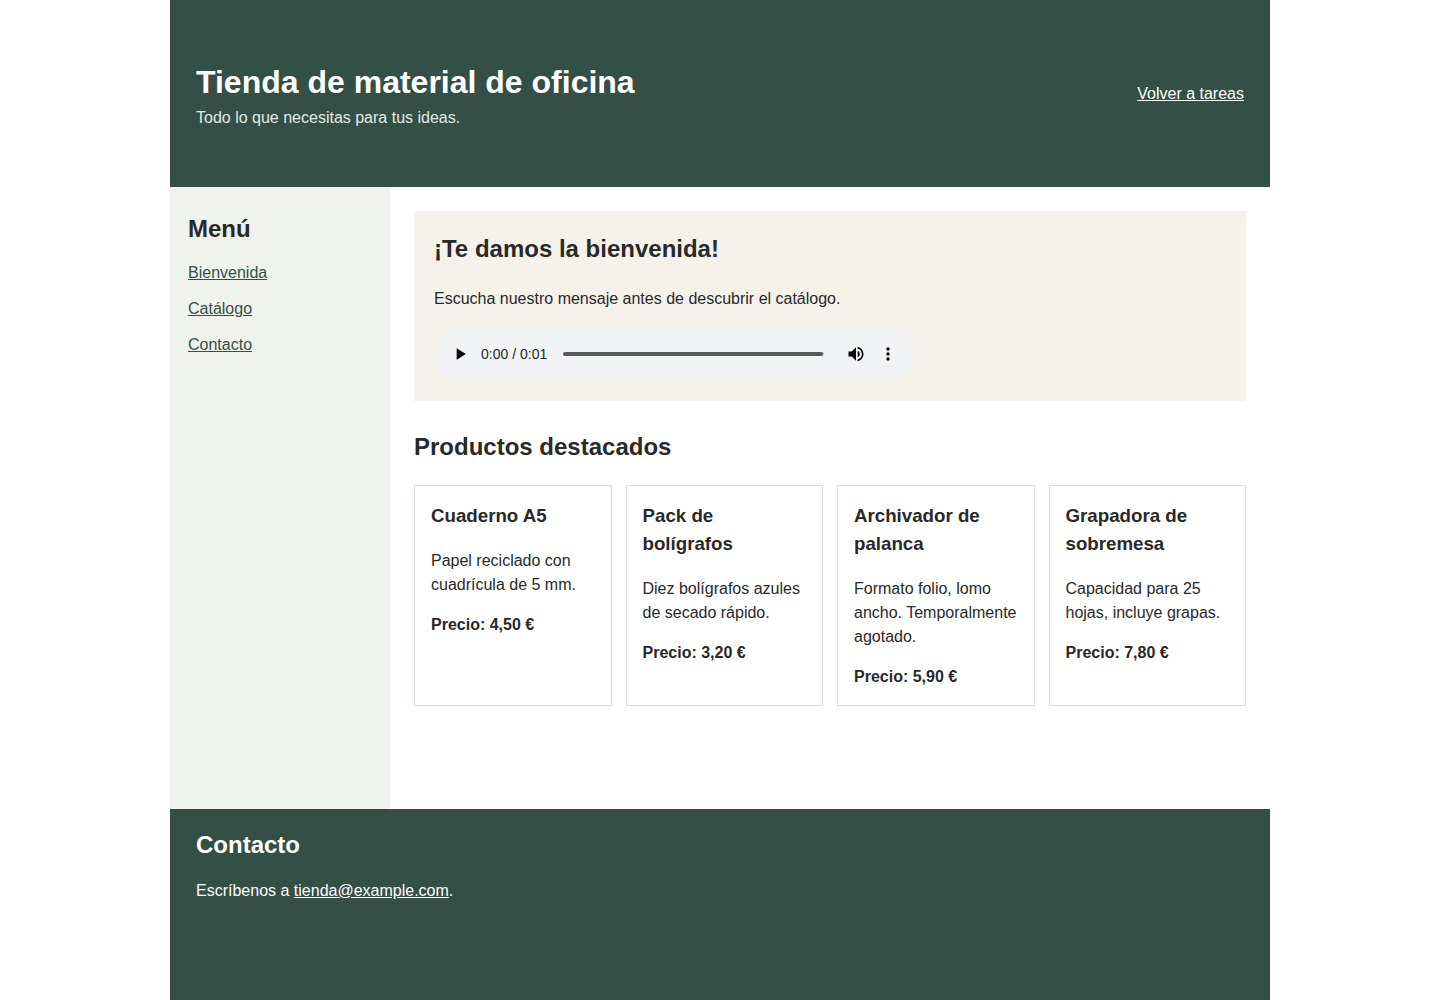
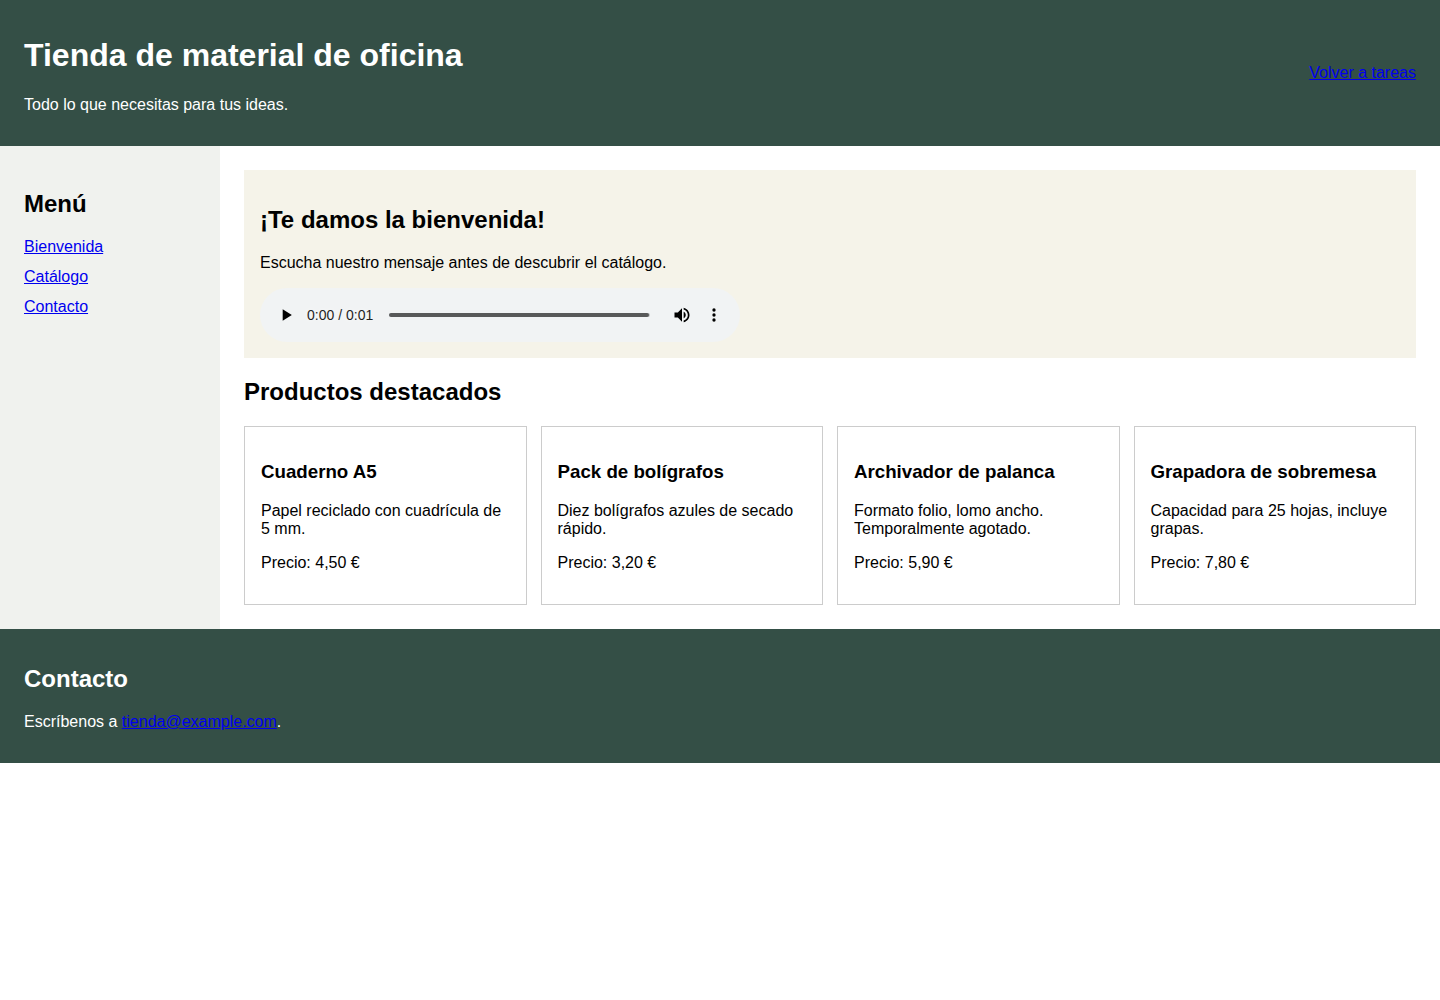
Simplificar estilos de la actividad C8

diff --git a/ejercicios/c8-audio/styles.css b/ejercicios/c8-audio/styles.css
@@ -1,12 +1,6 @@
-* {
-    box-sizing: border-box;
-}
-
 body {
     margin: 0;
-    color: #292929;
     font-family: Arial, sans-serif;
-    line-height: 1.5;
 }
 
 .contenedor {
@@ -15,75 +9,43 @@ body {
         "cabecera cabecera"
         "lateral contenido"
         "pie pie";
-    grid-template-columns: 220px minmax(0, 1fr);
-    max-width: 1100px;
-    min-height: 100vh;
-    margin: 0 auto;
+    grid-template-columns: 220px 1fr;
 }
 
 header {
     grid-area: cabecera;
     display: flex;
-    align-items: center;
     justify-content: space-between;
-    gap: 20px;
-    padding: 18px 26px;
-    color: #fff;
+    align-items: center;
+    padding: 16px 24px;
+    color: white;
     background: #344f46;
-}
-
-header h1,
-header p,
-aside h2,
-footer h2 {
-    margin: 0;
-}
-
-header p {
-    color: #e2e9e4;
-}
-
-header a {
-    color: #fff;
 }
 
 aside {
     grid-area: lateral;
-    padding: 24px 18px;
+    padding: 24px;
     background: #f0f2ee;
 }
 
 aside nav {
     display: grid;
     gap: 12px;
-    margin-top: 14px;
-}
-
-aside a {
-    color: #344f46;
 }
 
 main {
     grid-area: contenido;
-    min-width: 0;
     padding: 24px;
 }
 
 .bienvenida {
-    margin-bottom: 28px;
-    padding: 20px;
+    padding: 16px;
     background: #f5f3e9;
-}
-
-.bienvenida h2,
-.bienvenida p {
-    margin-top: 0;
 }
 
 audio {
     display: block;
     width: min(100%, 480px);
-    margin-top: 14px;
 }
 
 .productos {
@@ -95,31 +57,14 @@ audio {
 .productos article {
     flex: 1 1 190px;
     padding: 16px;
-    border: 1px solid #d9ded9;
-}
-
-.productos h3 {
-    margin-top: 0;
-}
-
-.productos p:last-child {
-    margin-bottom: 0;
-    font-weight: bold;
+    border: 1px solid #ccc;
 }
 
 footer {
     grid-area: pie;
-    padding: 18px 26px;
-    color: #fff;
+    padding: 16px 24px;
+    color: white;
     background: #344f46;
-}
-
-footer p {
-    margin-bottom: 0;
-}
-
-footer a {
-    color: #fff;
 }
 
 @media (max-width: 650px) {
@@ -129,20 +74,11 @@ footer a {
             "lateral"
             "contenido"
             "pie";
-        grid-template-columns: minmax(0, 1fr);
+        grid-template-columns: 1fr;
     }
 
     header {
         align-items: flex-start;
         flex-direction: column;
-    }
-
-    aside nav {
-        display: flex;
-        flex-wrap: wrap;
-    }
-
-    main {
-        padding: 18px;
     }
 }
